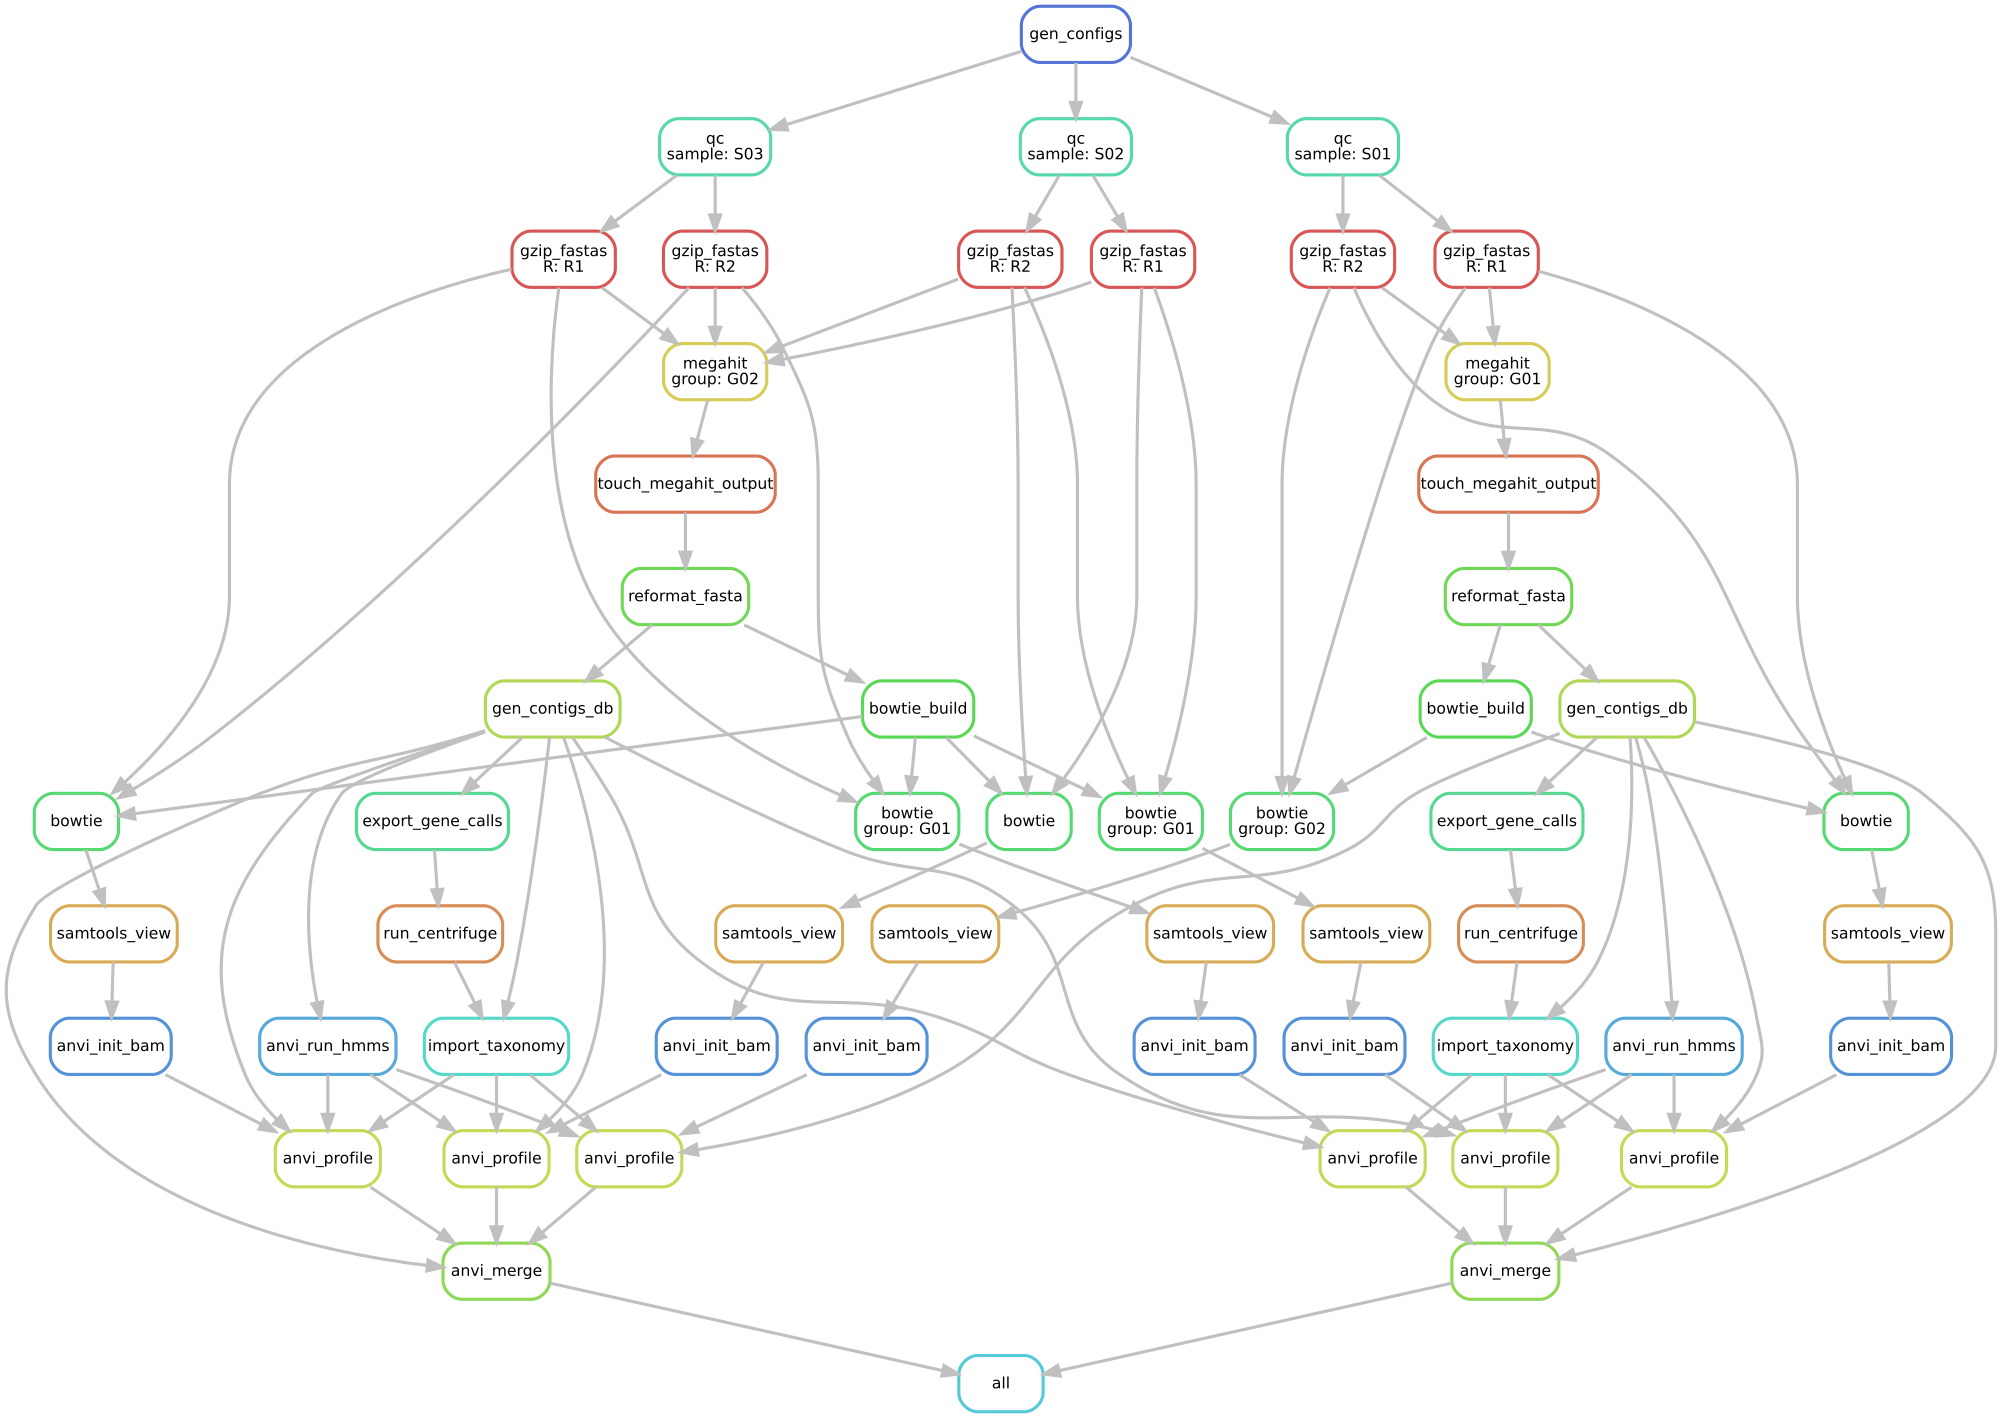
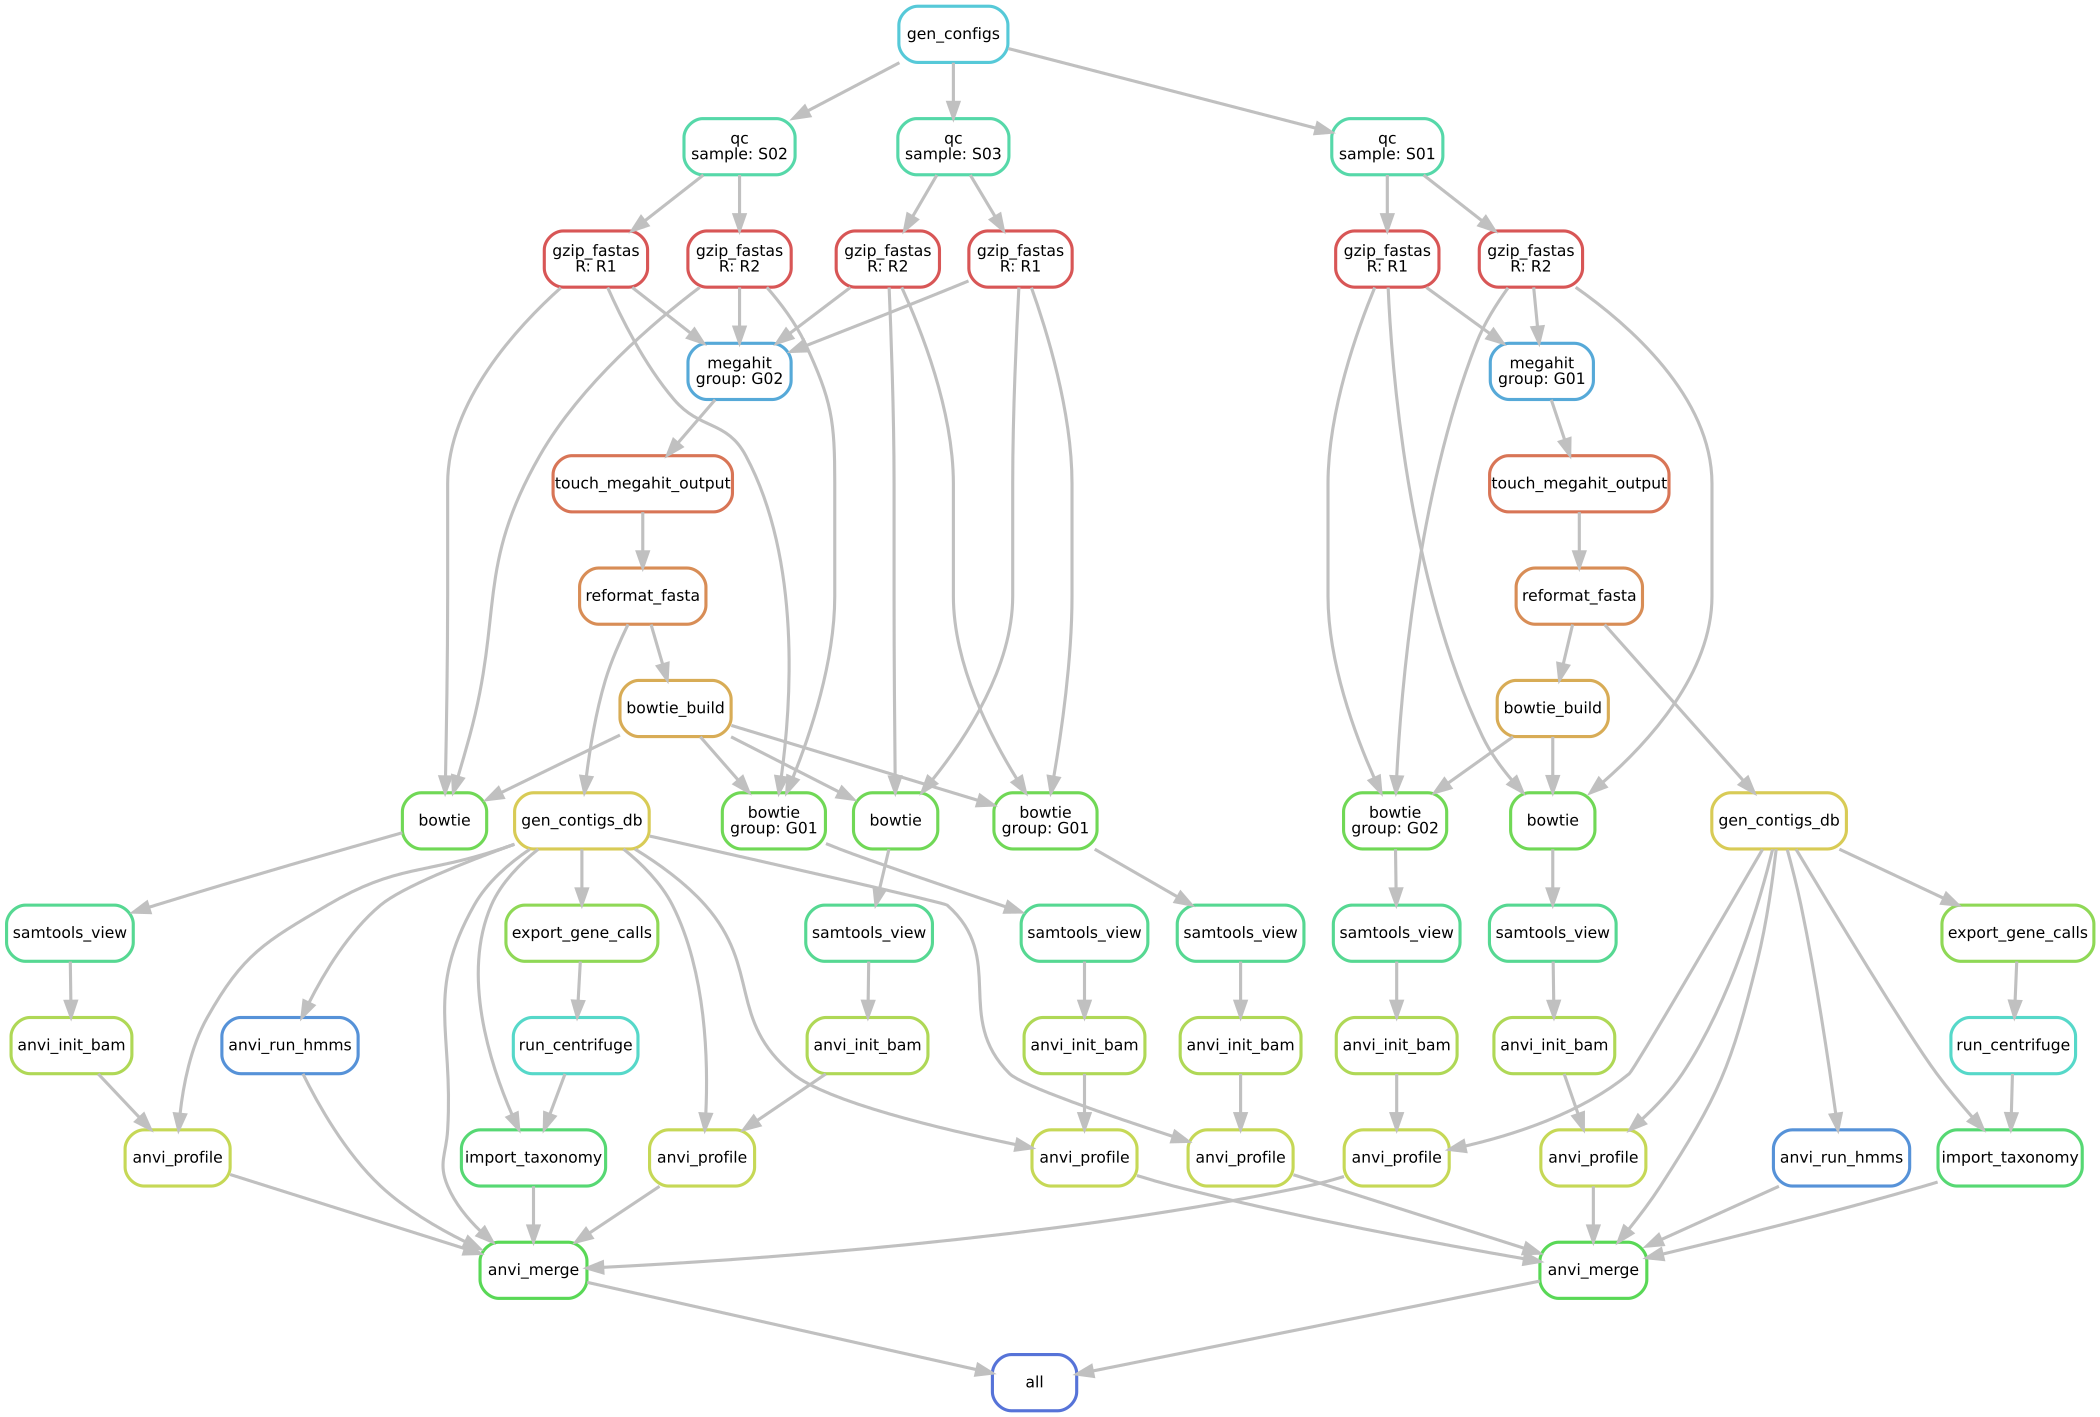
run hmm and centrifuge before merge
Instead of having hmm and centrifuge as inputs to the profile rule
(hence only doing profile after those are done), we now have these as
input to the merge rule (hence centrifuge and hmm could be run in
parallel to profiling). The DAGs are also updated accordingly.

diff --git a/workflows/assembly-based-metagenomics-workflow/README.md b/workflows/assembly-based-metagenomics-workflow/README.md
@@ -12,7 +12,12 @@ The pipline includes the following steps:
 7. Profiling the individual bam files using [anvi-profile](http://merenlab.org/2016/06/22/anvio-tutorial-v2/#anvi-profile).
 8. Merging the individual profile databases using [anvi-merge](http://merenlab.org/2016/06/22/anvio-tutorial-v2/#anvi-merge).
 
-A directed acyclic graph (DAG) describing the workflow for a mock dataset could be found [here](mock_files_for_merenlab_metagenomics_pipeline/mock-dag.png). If you want to create a DAG for your dataset, simply run:
+A directed acyclic graph (DAG) describing the workflow for a mock dataset could be seen below:
+
+![alt text][mock_files_for_merenlab_metagenomics_pipeline/mock-dag.png]
+
+
+If you want to create a DAG for your dataset, simply run:
 
 ```
 snakemake --snakefile merenlab-metagenomics-pipeline.snakefile --dag | dot -Tsvg > dag.svg
@@ -82,3 +87,8 @@ The default behaviour for this workflow is to create a contigs database for each
 
 For those of you who are learning `snakemake`, you might be surprised of how easy the switch between the modes is. All we need to do is tell the `anvi_merge` rule that we want all samples merged for each _group_, and snakemake immediatly infers that it needs to also run the extra mapping, and profiling steps. *Thank you snakemake!* (says everyone).
 
+An updated DAG for the workflow for our mock data is available below:
+
+![alt text][mock_files_for_merenlab_metagenomics_pipeline/mock-dag-all-against-all.png]
+
+A little more of a mess! But also has a beauty to it :-).
